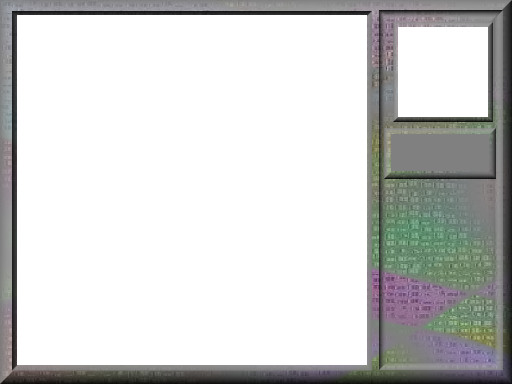
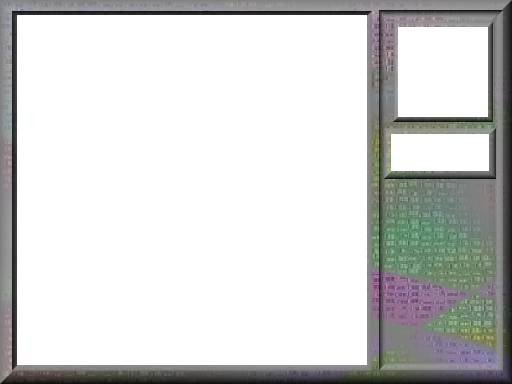
Added poop numbers for the scoreboard.

Changed region(s): [[0.75, 0.3438, 0.9688, 0.4688]]

diff --git a/src/Assets/Scripts/Scoreboard.cs b/src/Assets/Scripts/Scoreboard.cs
@@ -1,0 +1,50 @@
+using System.Collections.Generic;
+using Assets.Scripts.EventHandler;
+using Assets.Scripts.EventHandler.Messages;
+using UnityEngine;
+
+namespace Assets.Scripts
+{
+    public class Scoreboard : MonoBehaviour,
+        IListener<CollectedPoopMessage>
+    {
+        public GameObject Hundreds;
+        public GameObject Tens;
+        public GameObject Ones;
+
+        public List<Sprite> Frames;
+
+        private int _score;
+        public int Score
+        {
+            get { return _score; }
+            set
+            { 
+                _score = value;
+                UpdateScoreboard();
+            }
+        }
+
+        void Start()
+        {
+            this.Register<CollectedPoopMessage>();
+        }
+
+        void OnDestroy()
+        {
+            this.UnRegister<CollectedPoopMessage>();
+        }
+
+        private void UpdateScoreboard()
+        {
+            Hundreds.GetComponent<SpriteRenderer>().sprite = Frames[Score / 100 % 10];
+            Tens.GetComponent<SpriteRenderer>().sprite = Frames[Score / 10 % 10];
+            Ones.GetComponent<SpriteRenderer>().sprite = Frames[Score / 1 % 10];
+        }
+
+        public void Handle(CollectedPoopMessage message)
+        {
+            Score++;
+        }
+    }
+}
